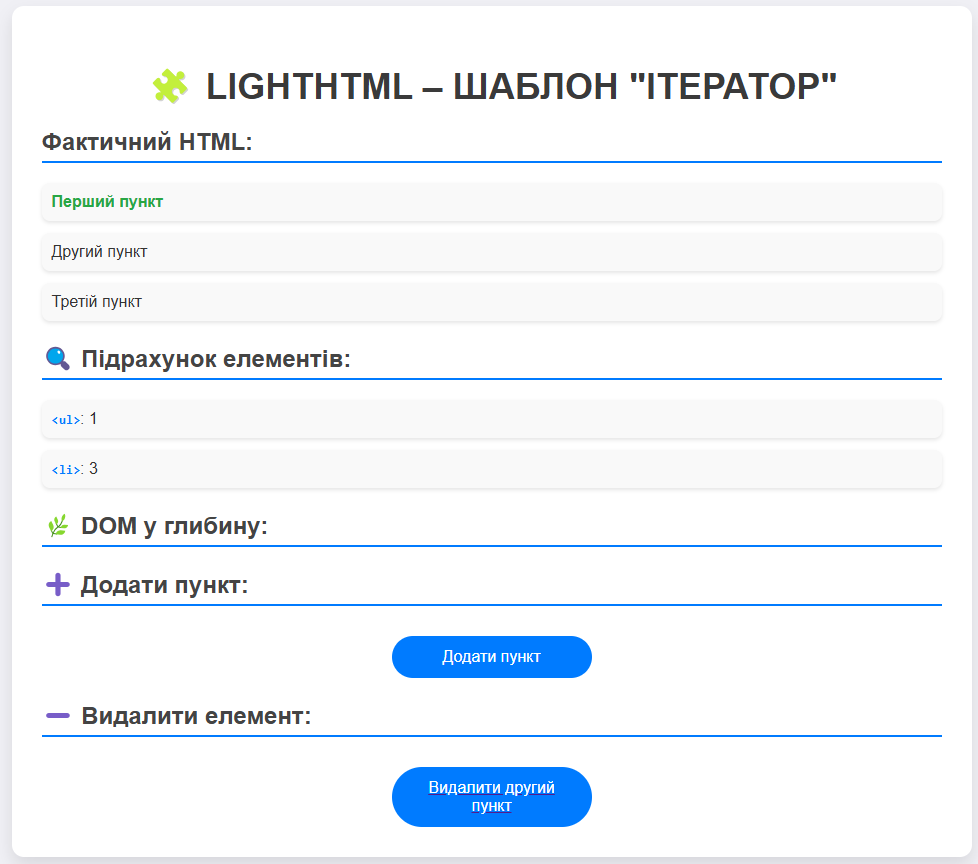
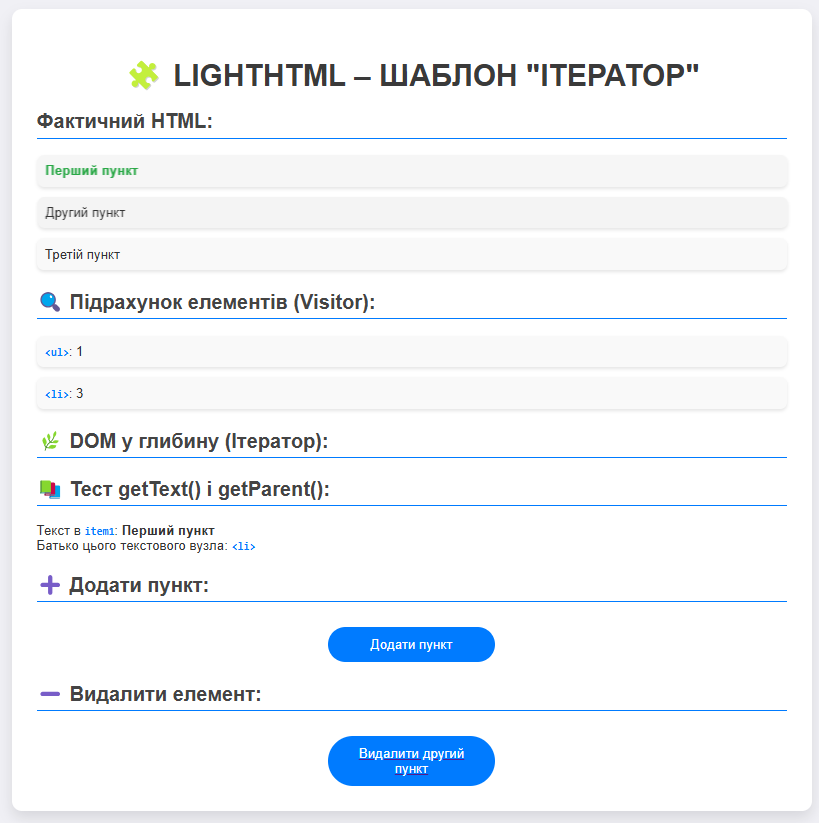
Оновлення README.md

diff --git a/LightHTML.php b/LightHTML.php
@@ -2,8 +2,20 @@
 
 abstract class LightNode
 {
+    protected ?LightElementNode $parent = null;
+
     abstract public function outerHTML(): string;
     abstract public function innerHTML(): string;
+
+    public function setParent(?LightElementNode $parent): void
+    {
+        $this->parent = $parent;
+    }
+
+    public function getParent(): ?LightElementNode
+    {
+        return $this->parent;
+    }
 
     public function onCreated(): void {}
     public function onInserted(): void {}
@@ -21,6 +33,11 @@ class LightTextNode extends LightNode
     {
         $this->text = htmlspecialchars($text);
         $this->onTextRendered();
+    }
+
+    public function getText(): string
+    {
+        return $this->text;
     }
 
     public function innerHTML(): string
@@ -98,13 +115,17 @@ class LightElementNode extends LightNode
 
     public function addClass(string $className): void
     {
-        $this->cssClasses[] = $className;
-        $this->onClassListApplied();
+        if (!in_array($className, $this->cssClasses)) {
+            $this->cssClasses[] = $className;
+            $this->onClassListApplied();
+        }
     }
 
     public function removeClass(string $className): void
     {
-        $this->cssClasses = array_filter($this->cssClasses, fn($cls) => $cls !== $className);
+        $this->cssClasses = array_values(
+            array_filter($this->cssClasses, fn($cls) => $cls !== $className)
+        );
     }
 
     public function setAttribute(string $name, string $value): void
@@ -115,7 +136,8 @@ class LightElementNode extends LightNode
     public function appendChild(LightNode $node): void
     {
         $this->children[] = $node;
-        $this->onInserted();
+        $node->setParent($this);
+        $node->onInserted();
     }
 
     public function removeChild(LightNode $node): void
@@ -124,6 +146,7 @@ class LightElementNode extends LightNode
             if ($child === $node) {
                 unset($this->children[$i]);
                 $this->children = array_values($this->children);
+                $node->setParent(null);
                 $node->onRemoved();
                 break;
             }

diff --git a/index.php b/index.php
@@ -71,21 +71,45 @@ $walker = new DepthIterator($list);
     <h2>Фактичний HTML:</h2>
     <?= $list->outerHTML() ?>
 
-    <h2>🔍 Підрахунок елементів:</h2>
+    <h2>🔍 Підрахунок елементів (Visitor):</h2>
     <ul>
         <?php foreach ($counts as $tag => $count): ?>
             <li><code>&lt;<?= $tag ?>&gt;</code>: <?= $count ?></li>
         <?php endforeach; ?>
     </ul>
 
-    <h2>🌿 DOM у глибину:</h2>
-    <ul>
-        <?php foreach ($walker as $node): ?>
-            <?php if ($node instanceof LightElementNode): ?>
-                <li><code><?= $node->getTagName() ?></code></li>
-            <?php endif; ?>
+    <h2>🌿 DOM у глибину (Ітератор):</h2>
+    <ul style="font-family: monospace;">
+        <?php
+        function getNodeLevel($node) {
+            $level = 0;
+            while ($node = $node->getParent()) {
+                $level++;
+            }
+            return $level;
+        }
+
+        foreach ($walker as $node):
+            $level = getNodeLevel($node);
+            $indent = str_repeat("&nbsp;&nbsp;&nbsp;", $level);
+        ?>
+            <li>
+                <?= $indent ?>
+                <?php if ($node instanceof LightElementNode): ?>
+                    📦 <code>&lt;<?= $node->getTagName() ?>&gt;</code>
+                <?php elseif ($node instanceof LightTextNode): ?>
+                    📝 <em>"<?= htmlspecialchars($node->getText()) ?>"</em>
+                <?php endif; ?>
+            </li>
         <?php endforeach; ?>
     </ul>
+
+    <h2>📚 Тест getText() і getParent():</h2>
+    <p>
+        Текст в <code>item1</code>: <strong><?= $item1->getChildren()[0]->getText() ?></strong><br>
+        Батько цього текстового вузла: 
+        <code>&lt;<?= $item1->getChildren()[0]->getParent()->getTagName() ?>&gt;</code>
+    </p>
 
     <h2>➕ Додати пункт:</h2>
     <button onclick="addListItem()">Додати пункт</button>
